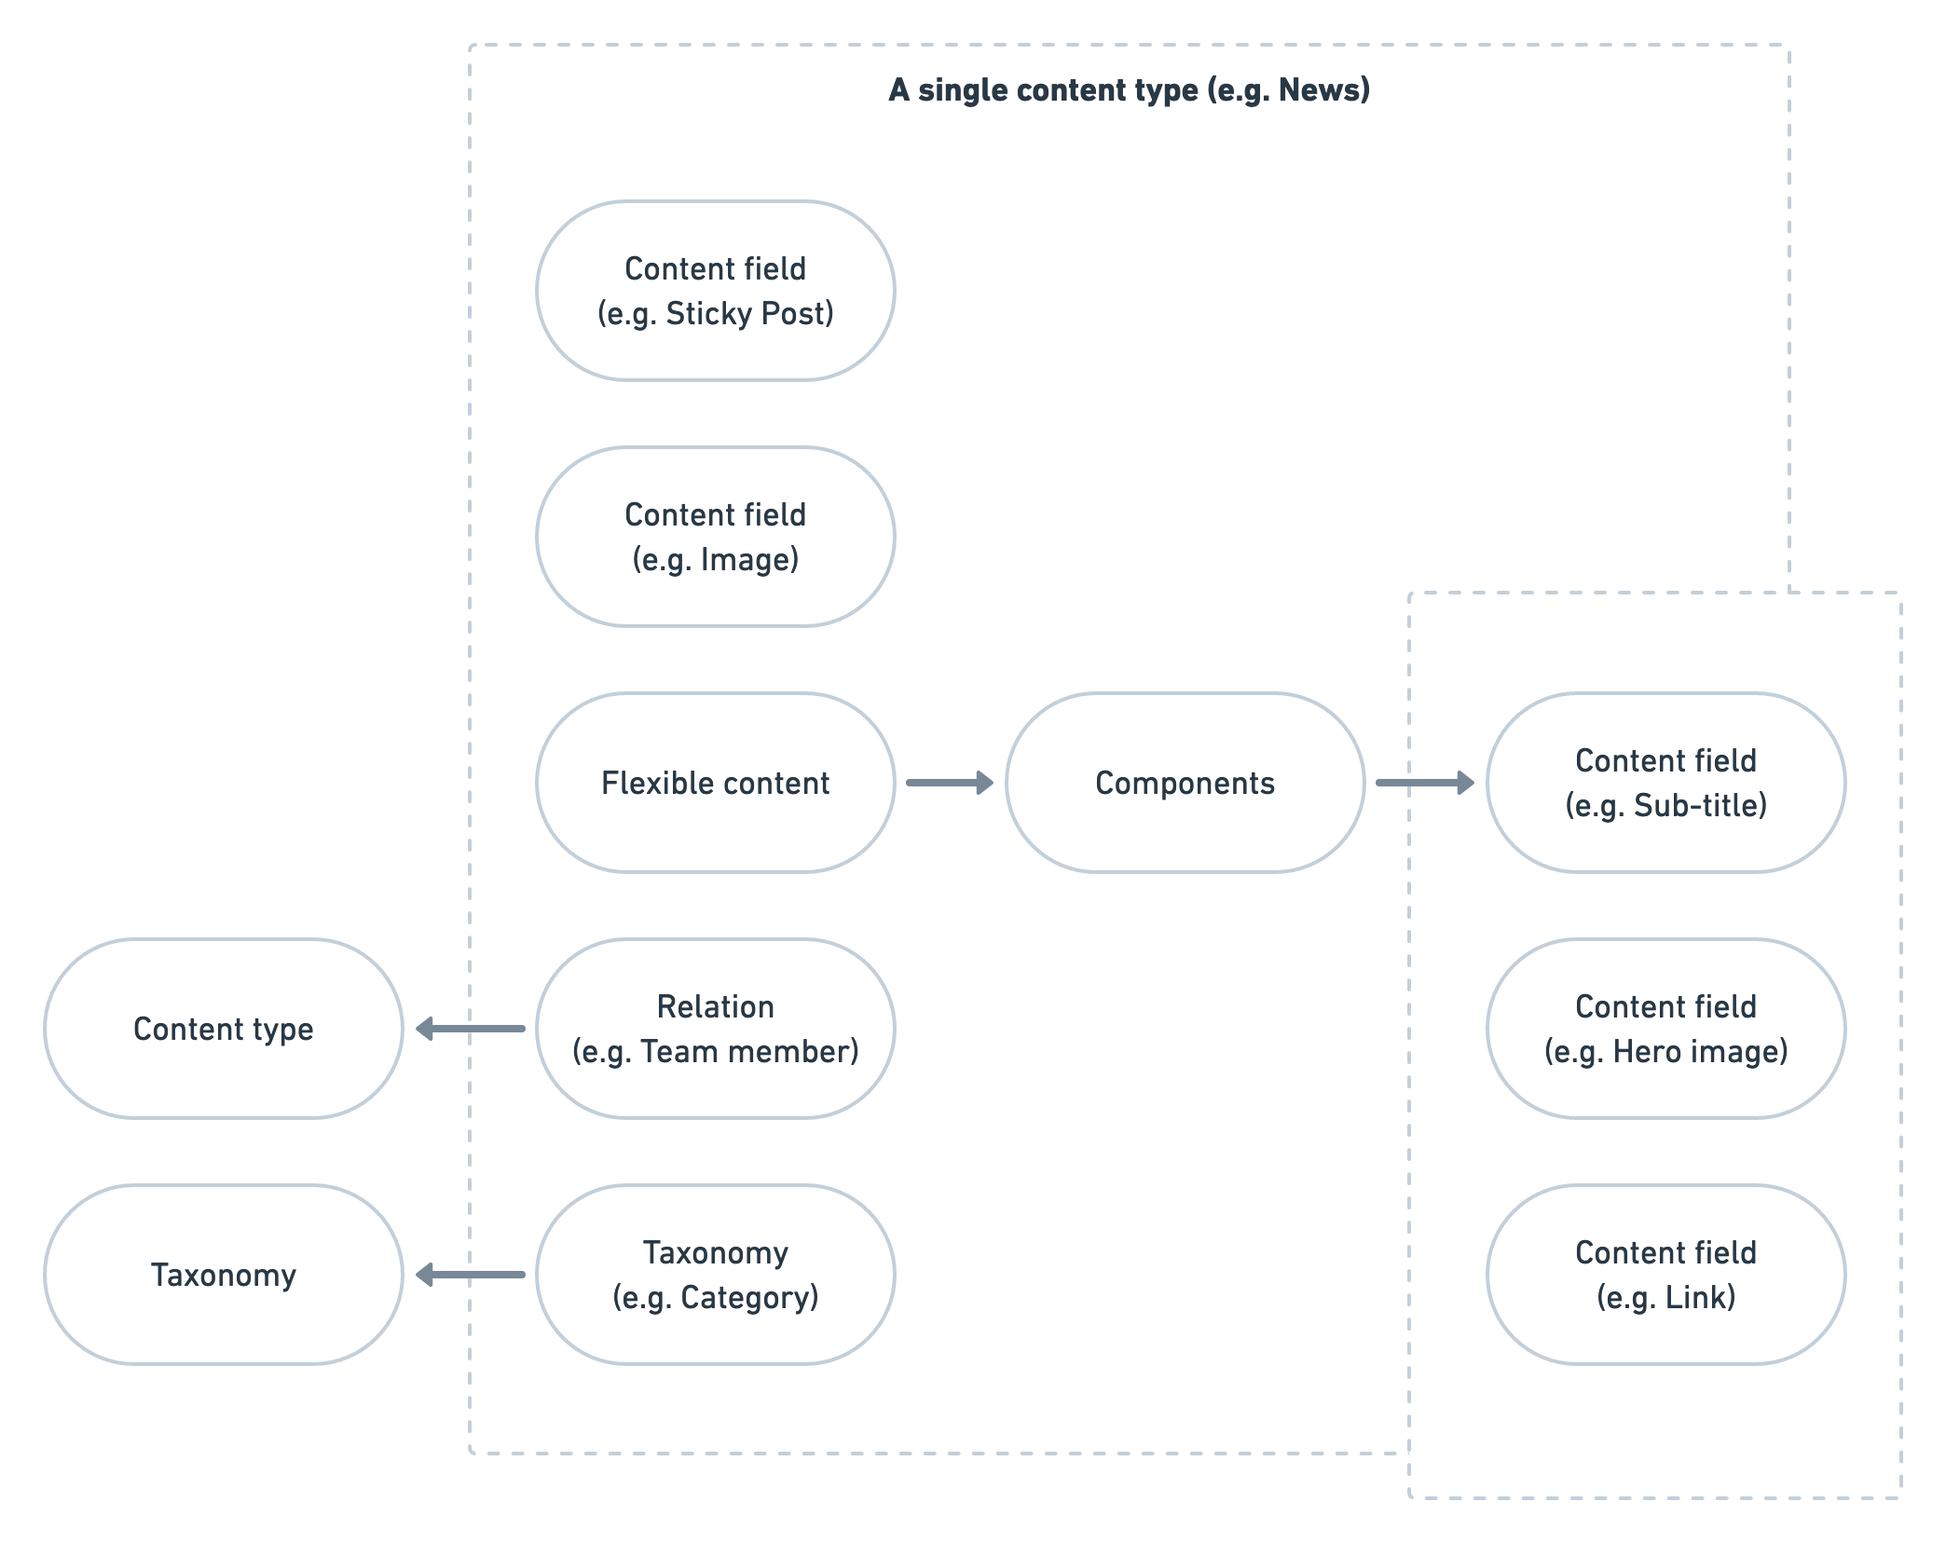
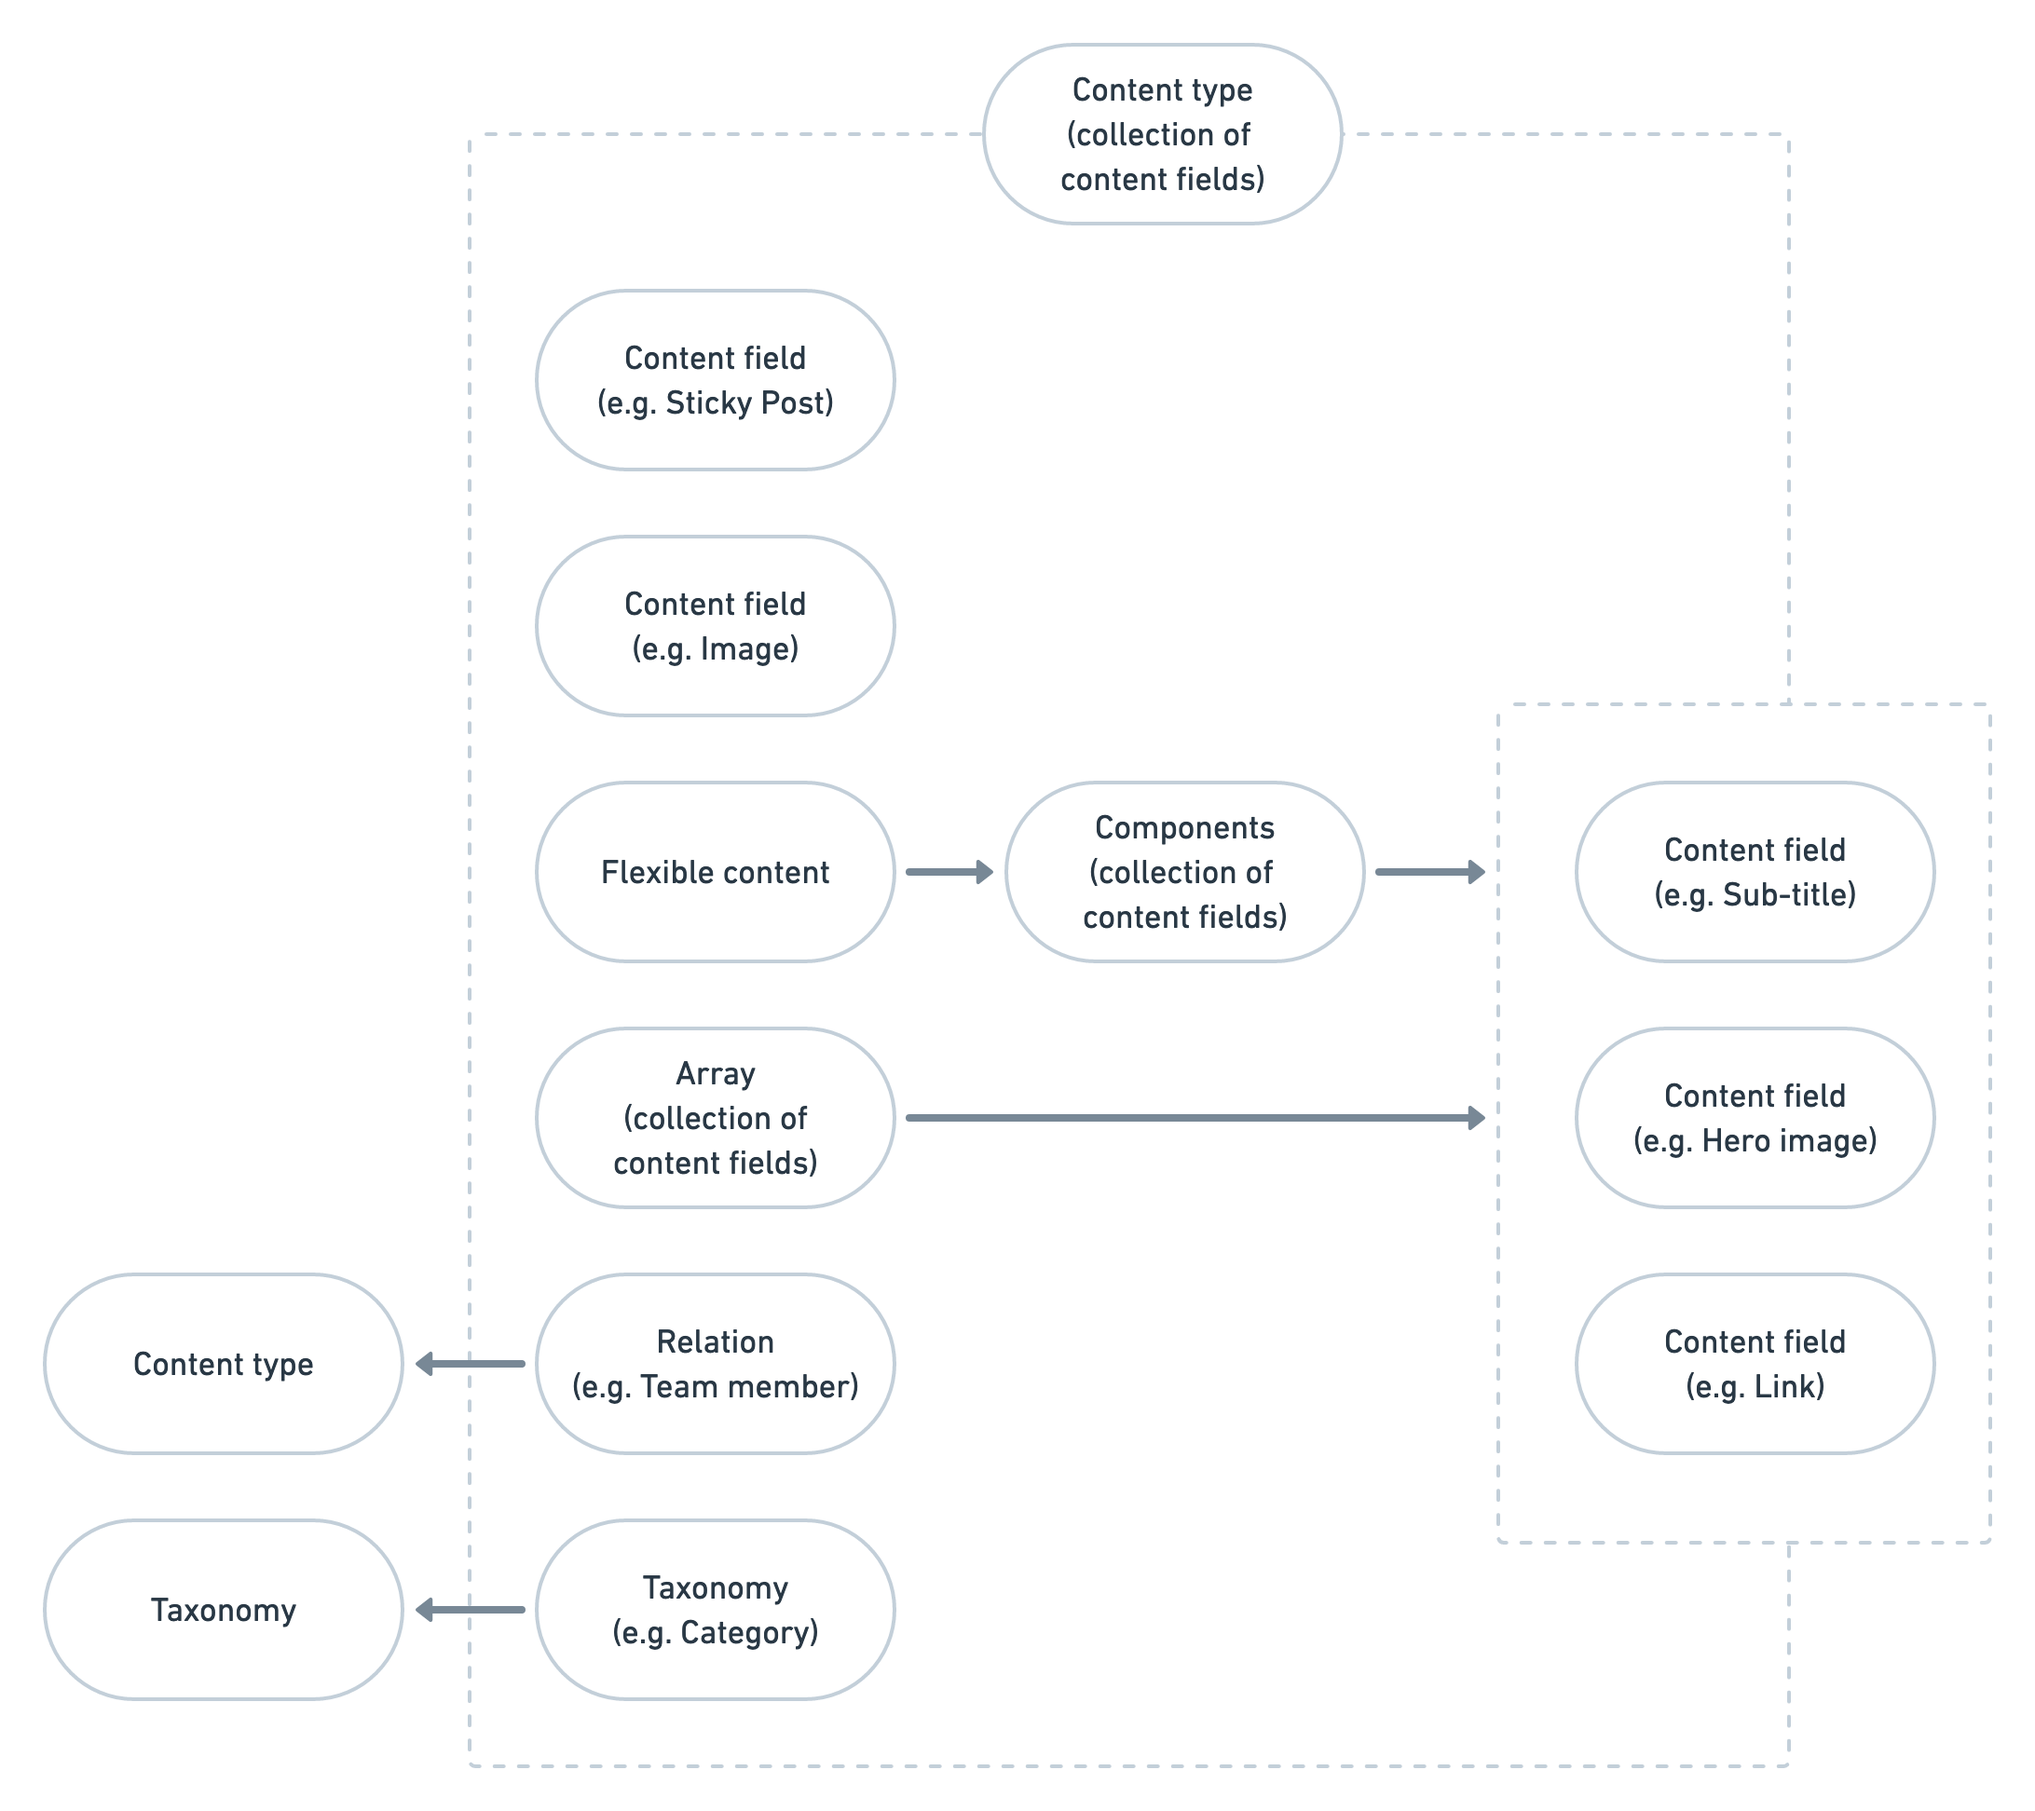
Add Array to docs

diff --git a/docs/content-model.md b/docs/content-model.md
@@ -63,17 +63,25 @@ taxonomy content record.
 
 Another common use case is listing taxonomies separately, for example, if you want to list of categories.
 
+### Array
+
+An array contains multiple fixed content fields. Think about multiple entries, each of which have the same number of fields. 
+This is also known as a _repeater_ field in a CMS.
+
+Each entry in the array must contain the same number of content fields.
+
 ### Flexible content
 
-Flexible content is where it gets a little complex! The benefit of the content field approach is that each content type 
-has a strict set of content fields a user can enter content into. This is great for providing structured content but fails 
-to give any flexibility to the user.
+Flexible content is similar to an array but allows for different sets of content fields which the user can add in any order. 
+We call these sets of content fields _components_. This is also known as a _block_ in a CMS.
 
-A common requirement is to allow users to build up a page of a number of different components, or blocks, of content. For 
-example, you may add a full-width image, followed by a text block, followed by a quotation block. 
+Flexible content can contain multiple components, in any order the user chooses. 
 
-The idea is the user can add these components in any order. This gives flexibility of layout, while still controlling the 
-content by providing fixed fields for each component for the user to fill in.
+The benefit of this approach is that each component has a strict set of content fields which can be used to 
+structure content, yet still giving the user the freedom to mix and match components to create interesting page content. 
+For example, you may add a full-width image, followed by a text block, followed by a quotation block. 
+
+This gives flexibility of layout, while still providing structured content. 
 
 #### Components
 
